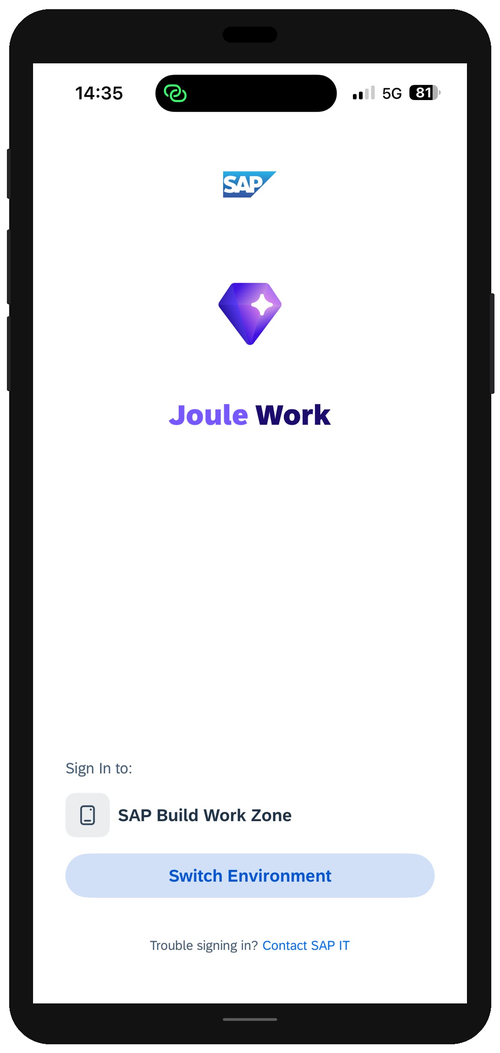
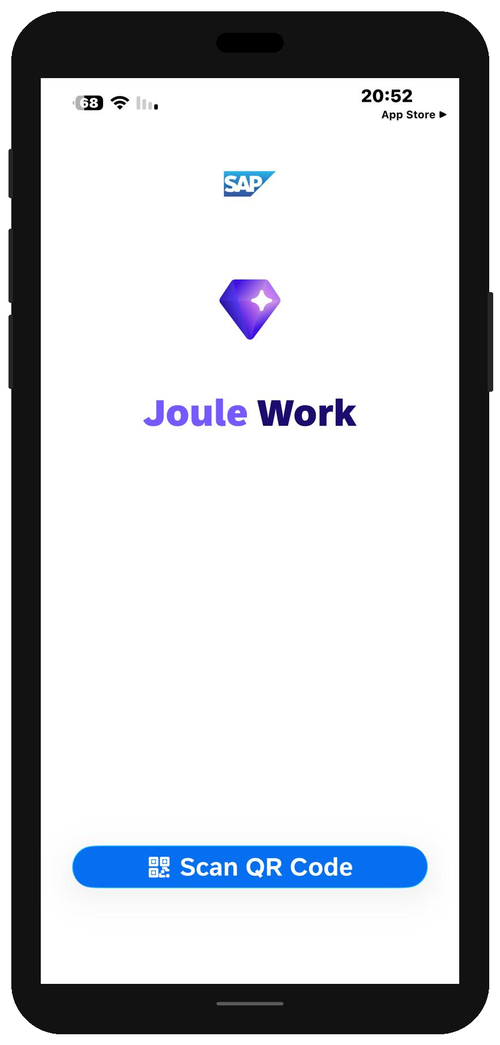
fix(ex0-ex5): fix callout rendering and content improvements across all exercises
- Move all indented callouts (`    > [!...]`) to left margin so they render as styled GitHub alerts instead of plain blockquotes
- Where a callout preceded an image inside a list step, reorder to place image first and callout after (prevents indented image rendering as code block)
- Remove the IMPORTANT callout in ex1.2 about notifying the instructor (not needed)
- Fix 7-space indented paragraph in ex2.1.4 that rendered as a code block (corrected to 4-space list continuation)
- Add TIP in ex2.2 reminding participants to delete placeholder text before generating AI content
- Remove "All Cards (9)" from ex2.3.5
- Add IMPORTANT callout in ex2.4 about equalizing column widths if cards were added one at a time
- Make ex2.5.2 explicit about deleting the "Partner Portal" footer text before replacing it
- Replace ex5.1 step 5 image (05_01_0040.png) with fresh-install splash screen showing Scan QR Code button
- Fix "Open in new tab" value in ex4.5.3 table from Yes to No

diff --git a/exercises/ex3/README.md b/exercises/ex3/README.md
@@ -19,12 +19,12 @@ Rather than downloading and uploading files, you will **copy** the ready-made co
 
 3. In the **Copy To…** dialog that opens, use the dropdown to select the **Dealer Portal** you created in Exercise 2 (e.g. *BestRun EV Dealer Portal AD166-XXX*) as the target workspace. Then click **Select Folder** to start the copy.
 
-    > [!NOTE]
-    > This is a **copy** — the original content stays in the **Dealer Management** workspace so that all other participants can still copy it for themselves.
-    >
-    > The copy may take a few minutes. You can continue with the next steps once it completes.
-
     ![Copy To dialog with the Dealer Portal selected as target and Select Folder button highlighted](images/03_01_0030.png)
+
+> [!NOTE]
+> This is a **copy** — the original content stays in the **Dealer Management** workspace so that all other participants can still copy it for themselves.
+>
+> The copy may take a few minutes. You can continue with the next steps once it completes.
 
 4. Once the copy completes, navigate to your **BestRun EV Dealer Portal AD166-XXX** — the workspace you created in Exercise 2. Open the **Workspaces** menu in the top navigation, hover **Recently Visited Workspaces**, and select your Dealer Portal. In the next steps you will use the copied content to build the product launch section.
 
@@ -168,10 +168,10 @@ Time to step into a dealer's shoes and see the portal exactly as they will on la
 
 2. Navigate to your **BestRun EV Dealer Portal AD166-XXX**. You will see the Overview page as a dealer — the new **Announcement: New Product Line Launch** section now sits prominently below the hero banner, with the styled announcement on the left and the interactive brochure slideshow on the right.
 
-    > [!NOTE]
-    > Document grounding is already enabled for this workspace, so Joule is ready to answer questions about the Apex Series content right away. Dealers can click **Ask Joule** in the announcement text or open Joule from the navigation to get instant answers grounded in the product documents you copied over.
-
     <a href="images/03_04_0010.png" target="_blank"><img src="images/03_04_0010.png" height="500" alt="Full dealer view of the BestRun EV Dealer Portal showing the Apex launch section, Key Highlights, Dealer 360 cards, and Joule-ready content — click to view full size" /></a>
+
+> [!NOTE]
+> Document grounding is already enabled for this workspace, so Joule is ready to answer questions about the Apex Series content right away. Dealers can click **Ask Joule** in the announcement text or open Joule from the navigation to get instant answers grounded in the product documents you copied over.
 
 3. Use the **`<`** and **`>`** navigation buttons on the brochure slideshow to flip through the presentation slides directly on the page — no download required.
 
@@ -179,10 +179,10 @@ Time to step into a dealer's shoes and see the portal exactly as they will on la
 
 4. Click on the brochure itself to open its detail view. From here you can open it full-screen, download it, comment on it, or open it in a native application. Try clicking **✨ Summarize** — Joule generates a concise summary of the presentation without you having to read through all ten slides.
 
-    > [!NOTE]
-    > **Summarize** works across all content types in SAP Build Work Zone: uploaded documents, portal pages, native content like blogs, wikis, and Knowledge Base articles. Whenever a dealer (or any workspace member) wants a quick overview, one click is all it takes.
-
     ![Brochure detail view with the Summarize button highlighted and the AI summary tooltip visible](images/03_04_0030.png)
+
+> [!NOTE]
+> **Summarize** works across all content types in SAP Build Work Zone: uploaded documents, portal pages, native content like blogs, wikis, and Knowledge Base articles. Whenever a dealer (or any workspace member) wants a quick overview, one click is all it takes.
 
 5. The **AI Generated Summary** appears above the document — a concise paragraph covering the key product highlights, pre-order opportunity, and dealer benefits, all extracted directly from the presentation content.
 
@@ -217,8 +217,8 @@ Time to step into a dealer's shoes and see the portal exactly as they will on la
 
     ![Joule answering the LFP battery question in the side panel, with inline citations and a Sources (3) control](images/03_04_0090.png)
 
-    > [!NOTE]
-    > None of this detail is in the launch brochure. One plain-language question returned a trustworthy, cited answer assembled from **two** different dealer documents — no downloading, no skimming.
+> [!NOTE]
+> None of this detail is in the launch brochure. One plain-language question returned a trustworthy, cited answer assembled from **two** different dealer documents — no downloading, no skimming.
 
 9. Finally, the commercial and service question — can you make a margin on it, and can your workshop look after it?
 

diff --git a/exercises/ex2/README.md b/exercises/ex2/README.md
@@ -35,7 +35,7 @@ The Partner Portal Template comes with a hero banner that has placeholder title 
     The portal is the single place where dealers manage their relationship with BestRun EV — orders, invoices, support, and product information.
     ```
 
-       Add your own description, then use the embedded AI to refine it to your needs. Click the <img src="images/aiassist.png" height="16" style="vertical-align: text-bottom;" alt="AI assisted text generation icon"> (AI assist) button next to the field and choose **Change Tone → Make More Professional** to polish your draft.
+    Add your own description, then use the embedded AI to refine it to your needs. Click the <img src="images/aiassist.png" height="16" style="vertical-align: text-bottom;" alt="AI assisted text generation icon"> (AI assist) button next to the field and choose **Change Tone → Make More Professional** to polish your draft.
 
     ![Rotating Banner Widget Description with the AI Change Tone → Make More Professional option](images/02_01_0030.png)
 
@@ -85,6 +85,9 @@ The Key Highlights section has three text cards — **Who & What?**, **Why?**, a
     Review the **Generated Text** and click **Accept** to insert it into the card. If you would like a different result, use **Retry** to regenerate, or **Discard** and try your own prompt or wording.
 
     ![Generate Text dialog showing the Who & What prompt and the generated response with Accept, Retry, and Discard](images/02_02_0020.png)
+
+> [!TIP]
+> If you did not delete the existing **"Suggested text …"** placeholder before generating, you can do it now — select it in the card and delete it.
 
 ### The Why? and How? Cards
 
@@ -151,7 +154,7 @@ The Key Highlights section now explains the portal to dealers, authored entirely
 
     ![Add Content selection screen with the Cards option](images/02_03_0030.png)
 
-5. The **Add Cards** screen lists the pre-built cards available in this landscape (**All Cards (9)**) — including company info cards such as Factory Inventory, Portfolio Performance, and eBike Demand Mix. For the first card, select **BestRun EV | Factory Inventory** — "Available-to-ship factory inventory by eBike model, with stock threshold reference lines."
+5. The **Add Cards** screen lists the pre-built cards available in this landscape — including company info cards such as Factory Inventory, Portfolio Performance, and eBike Demand Mix. For the first card, select **BestRun EV | Factory Inventory** — "Available-to-ship factory inventory by eBike model, with stock threshold reference lines."
 
     ![Add Cards screen showing the pre-built cards with BestRun EV Factory Inventory selected](images/02_03_0040.png)
 
@@ -205,6 +208,9 @@ The Overview page now features a section of BestRun EV company info cards — in
 
     ![Dealer 360 section with three empty columns, each showing an Add Content button](images/02_04_0040.png)
 
+> [!IMPORTANT]
+> If you added each card one at a time without setting up the three columns first, the cards may have ended up with unequal widths. You can still fix this — hover over the section and drag the column dividers to equalize the card widths.
+
 6. The three cards are added, but they show **"No open orders / invoices / support cases found."** This is **expected, not a bug** — these are **self-service cards** that only load data for the signed-in **dealer** user. As the admin, you have no dealer data, so they appear empty. The cards will show real content later, when you switch to your **Dealer XXX** alias in Exercise 3.
 
     ![Dealer 360 section with My Orders, My Invoices, and My Support Cases cards showing empty states for the admin user](images/02_04_0050.png)
@@ -221,7 +227,7 @@ The **Dealer 360** section is in place with the three self-service cards. They l
 
     ![Footer text widget selected in the page editor, showing the generic Partner Portal copyright line](images/02_05_0010.png)
 
-2. Edit the footer text to reflect BestRun EV:
+2. **Delete** the existing **"Partner Portal © 2026 Your Company Name. All rights reserved."** text and replace it with:
 
     ```
     Dealer Portal © 2026 BestRun EV. All rights reserved.

diff --git a/exercises/ex4/README.md b/exercises/ex4/README.md
@@ -214,8 +214,8 @@ Below the wizard, add the **Pre-Order Status** card in a new Freestyle section. 
 
     ![Add Cards dialog with "Pre-Order Status" searched, showing the BestRun EV | Pre-Order Status card](images/04_04_0020.png)
 
-    > [!IMPORTANT]
-    > Make sure you select **BestRun EV | Pre-Order Status**, *not* the Guided5 confirmation card. The status card is the one purpose-built for this page — it starts empty and fills in as the dealer works through the wizard. (If it doesn't appear in the picker, upload `preorder-status-card.card.zip` to the Card Catalog first.)
+> [!IMPORTANT]
+> Make sure you select **BestRun EV | Pre-Order Status**, *not* the Guided5 confirmation card. The status card is the one purpose-built for this page — it starts empty and fills in as the dealer works through the wizard. (If it doesn't appear in the picker, upload `preorder-status-card.card.zip` to the Card Catalog first.)
 
 6. The card is added below the wizard. Because no pre-order has been started yet, it shows its empty state — a **"No pre-order started yet"** illustration. This is exactly what you want: the card stays empty until a dealer runs the wizard.
 
@@ -227,8 +227,8 @@ Below the wizard, add the **Pre-Order Status** card in a new Freestyle section. 
 
     ![Published Apex Pre-Order page with the browser address bar showing the page URL to copy](images/04_04_0040.png)
 
-    > [!TIP]
-    > The URL looks like `https://<host>.workzone.cfapps.eu10.hana.ondemand.com/site#workzone-home&/groups/<groupId>/workpage_tab/...`. Copy the whole thing — it points directly to this Apex Pre-Order workpage.
+> [!TIP]
+> The URL looks like `https://<host>.workzone.cfapps.eu10.hana.ondemand.com/site#workzone-home&/groups/<groupId>/workpage_tab/...`. Copy the whole thing — it points directly to this Apex Pre-Order workpage.
 
 > [!NOTE]
 > When no wizard data exists yet, the status card shows an empty-state illustration ("No pre-order started yet"). As soon as the dealer progresses through the wizard, the card updates automatically — first showing an "in progress" checklist, then switching to the confirmed order summary once Step 5 is completed.
@@ -265,7 +265,7 @@ Now that the Apex Pre-Order page exists, give dealers a clear path to it straigh
     | Title Font Size (rem) | `2` |
     | Subtitle Font Size (rem) | `1.5` |
     | Target URL | *paste the Apex Pre-Order page URL you copied in Exercise 4.4* |
-    | Open in new tab | **Yes** |
+    | Open in new tab | **No** |
 
     ![Button Card configuration dialog with the title, subtitle and sizing values set, showing the blue filled preview](images/04_05_0030.png)
 
@@ -375,10 +375,10 @@ Everything is now in place. Time to put yourself back in the dealer's shoes and 
 
     Before you can continue, tick the box to **accept the Apex Series Pre-Order Terms & Conditions** — acknowledging that the pre-order is binding on submission and subject to the cancellation and delivery terms in the document.
 
-    > [!TIP]
-    > Unsure what you are agreeing to? The step card suggests Joule questions for exactly this moment, such as *"What are my cancellation rights after submitting a pre-order?"* and *"What happens if BestRun EV cannot deliver within the stated window?"* — ask Joule before you accept.
+> [!TIP]
+> Unsure what you are agreeing to? The step card suggests Joule questions for exactly this moment, such as *"What are my cancellation rights after submitting a pre-order?"* and *"What happens if BestRun EV cannot deliver within the stated window?"* — ask Joule before you accept.
 
-    With the terms accepted, click **Save & Continue** and **Next** to move on to **Step 5 — Confirm Pre-Order**.
+With the terms accepted, click **Save & Continue** and **Next** to move on to **Step 5 — Confirm Pre-Order**.
 
 8. **Step 5 — Confirm Pre-Order.** The wizard confirms **"Pre-Order Submitted Successfully"** — you have secured your Apex Series allocation, and BestRun EV will confirm within 2 business days. The screen gives you everything to keep on file:
 

diff --git a/exercises/ex1/README.md b/exercises/ex1/README.md
@@ -28,8 +28,8 @@ Joule is available directly within SAP Build Work Zone — no BTP cockpit access
 
     ![Joule showing a My Workspaces overview with the Dealer Management workspace card](images/01_01_0030.png)
 
-    > [!NOTE]
-    > Joule in SAP Build Work Zone goes beyond general chat — it understands **Work Zone–specific actions**. Alongside listing your workspaces, it can create new workspaces, add members, navigate to content, and more. You will use several of these Work Zone capabilities in the exercises that follow — starting with creating your dealer portal in the next step.
+> [!NOTE]
+> Joule in SAP Build Work Zone goes beyond general chat — it understands **Work Zone–specific actions**. Alongside listing your workspaces, it can create new workspaces, add members, navigate to content, and more. You will use several of these Work Zone capabilities in the exercises that follow — starting with creating your dealer portal in the next step.
 
 ### Summary
 
@@ -61,8 +61,8 @@ There are two ways to create a workspace in SAP Build Work Zone — using Joule 
 
     ![Joule template list scrolled to the bottom showing the Partner Portal template with a Select link](images/01_02_0020.png)
 
-    > [!NOTE]
-    > Joule may skip the template list if it selects a template automatically based on your prompt. If no template selection appears, continue to the next step.
+> [!NOTE]
+> Joule may skip the template list if it selects a template automatically based on your prompt. If no template selection appears, continue to the next step.
 
 3. Joule creates the workspace and confirms with **"Great! The workspace has been created, and you can start building it."**
 
@@ -72,11 +72,11 @@ There are two ways to create a workspace in SAP Build Work Zone — using Joule 
 
     ![Home feed refreshed, showing the workspace-creation update with a link to BestRun EV Dealer Portal XXX](images/01_02_0040.png)
 
-    > [!TIP]
-    > Opening the workspace from the feed link keeps the Joule panel available on the right. You can also use the **View Workspace** button in the Joule chat, but that opens the workspace in a new tab and closes the panel.
+> [!TIP]
+> Opening the workspace from the feed link keeps the Joule panel available on the right. You can also use the **View Workspace** button in the Joule chat, but that opens the workspace in a new tab and closes the panel.
 
-    > [!NOTE]
-    > If you don't see the update, open the **Workspaces** menu in the top navigation and browse to **BestRun EV Dealer Portal XXX** from the list of your workspaces.
+> [!NOTE]
+> If you don't see the update, open the **Workspaces** menu in the top navigation and browse to **BestRun EV Dealer Portal XXX** from the list of your workspaces.
 
 5. Your new **BestRun EV Dealer Portal XXX** workspace opens on its **Overview** page. Close the Joule panel (the **X** in the top-right of the panel) to give yourself the full width for the next steps.
 
@@ -116,15 +116,12 @@ There are two ways to create a workspace in SAP Build Work Zone — using Joule 
 
     ![Newly created workspace open in the classical UI flow](images/01_02_B_0040.png)
 
-    > [!NOTE]
-    > You might need to refresh the workspace to get the cover image from the template.
+> [!NOTE]
+> You might need to refresh the workspace to get the cover image from the template.
 
 </details>
 
 ---
-
-> [!IMPORTANT]
-> As soon as your workspace is created, **notify your instructor**. The instructor needs your workspace name to enable **Document Grounding** for it (used in Exercise 3). Enabling grounding takes time to sync, so flagging it early means it is ready when you reach Exercise 3.
 
 ### Summary
 

diff --git a/exercises/ex0/README.md b/exercises/ex0/README.md
@@ -54,13 +54,13 @@ During this session you play two roles. You start as the portal admin who builds
 
     **[https://jw164-djmbomr8.workzone.cfapps.eu10.hana.ondemand.com/](https://jw164-djmbomr8.workzone.cfapps.eu10.hana.ondemand.com/)**
 
-    > [!NOTE]
-    > This URL is only accessible on-site at SAP TechEd 2026. Login credentials will be provided by the instructor.
+> [!NOTE]
+> This URL is only accessible on-site at SAP TechEd 2026. Login credentials will be provided by the instructor.
 
 2. Take a moment to orient yourself on the SAP Build Work Zone home page — the top menu bar, the Joule icon, and the Workspaces navigation.
 
-    > [!IMPORTANT]
-    > Throughout the exercises, replace `XXX` with your assigned participant number (e.g. if you are participant **AD166-005**, use **005**).
+> [!IMPORTANT]
+> Throughout the exercises, replace `XXX` with your assigned participant number (e.g. if you are participant **AD166-005**, use **005**).
 
 ## Exercise 0.3 Access the "Dealer Management" Workspace
 
@@ -88,14 +88,14 @@ A sample workspace called **Dealer Management** has been pre-provisioned in this
     - **Tab bar** — **Overview**, **Content**, **Feed Updates**, **Forums**, **Events**, **Knowledge Base**, and **Tasks**. Each tab is a different facet of the same workspace.
     - **Overview page content** — a banner, a **Team Activity** feed, and an **Active Tasks** panel. This is the kind of page you will build for your own portal in Exercises 2 and 3.
 
-    > [!TIP]
-    > The invitation notification disappears once you have joined. **Next time** you want to reach this workspace, use the **Workspaces** navigation instead:
-    >
-    > 1. In the top navigation bar, open the **Workspaces** menu and choose **View All Workspaces**.
-    >
-    >     ![Workspaces menu with View All Workspaces, showing the Dealer Management workspace in the list](images/00_03_0050.png)
-    >
-    > 2. Open the **Dealer Management** workspace. Right now it is the only workspace you can see — once you create your own **BestRun EV Dealer Portal XXX** in Exercise 1, it will appear here too.
+> [!TIP]
+> The invitation notification disappears once you have joined. **Next time** you want to reach this workspace, use the **Workspaces** navigation instead.
+
+1. In the top navigation bar, open the **Workspaces** menu and choose **View All Workspaces**.
+
+    ![Workspaces menu with View All Workspaces, showing the Dealer Management workspace in the list](images/00_03_0050.png)
+
+2. Open the **Dealer Management** workspace. Right now it is the only workspace you can see — once you create your own **BestRun EV Dealer Portal XXX** in Exercise 1, it will appear here too.
 
 ## Exercise 0.4 Explore the Workspace: Tasks and Content
 
@@ -118,8 +118,8 @@ Two tabs matter most for the story you are about to live out — **Tasks** (what
 
     Inside the **Apex Launch Material** folder you will find everything needed for the product launch — the Apex Series documents (PDFs), the three product images, and the launch brochure (PPTX). In **Exercise 3** you will copy this material straight into your own dealer portal workspace, so there is nothing to download.
 
-    > [!NOTE]
-    > More guidance on exploring a Work Zone workspace will be added here as the sample workspace is expanded.
+> [!NOTE]
+> More guidance on exploring a Work Zone workspace will be added here as the sample workspace is expanded.
 
 ## Summary
 

diff --git a/exercises/ex5/README.md b/exercises/ex5/README.md
@@ -16,8 +16,8 @@ SAP Build Work Zone content can be accessed not only from a desktop browser, but
 
     Start the download and continue with the next steps on the desktop while the app installs.
 
-    > [!NOTE]
-    > If you already have Joule Work installed and connected to another environment, you can still use it here. You can switch the connected environment from your user profile screen inside the app (+ Add New Environment)
+> [!NOTE]
+> If you already have Joule Work installed and connected to another environment, you can still use it here. You can switch the connected environment from your user profile screen inside the app (+ Add New Environment)
 
 ### Generate the registration QR code (on the desktop)
 
@@ -44,7 +44,7 @@ SAP Build Work Zone content can be accessed not only from a desktop browser, but
 
     - **Already connected to another environment:** sign out and tap **Switch Environment** at the bottom of the screen, then scan the QR code from the next step.
 
-    <img src="images/05_01_0040.png" alt="Joule Work app — if already connected to another environment, tap Switch Environment at the bottom of the screen" width="500" height="1053">
+    <img src="images/05_01_0040.png" alt="Joule Work splash screen on a fresh install, showing the Scan QR Code button" width="500" height="1045">
 
 6. Scan the QR code displayed on the desktop screen. The app shows a **Confirmation** screen — *"Scan succeeded. You will be connected to: jw164-djmbomr8..."*. Tap **Continue**.
 
@@ -80,10 +80,10 @@ Joule Work is installed and connected to the session landscape. You are ready to
 
 4. If you completed the optional **Guided Experience** (Exercise 4), navigate to the **Apex Pre-Order** page and confirm the wizard is accessible on mobile — the step-by-step cards render correctly on a phone screen.
 
-    > [!NOTE]
-    > This step only applies if you built the Guided Experience in Exercise 4.
+> [!NOTE]
+> This step only applies if you built the Guided Experience in Exercise 4.
 
-    <img src="images/05_02_0040.png" alt="Apex Series Pre-Order Guided Experience wizard open on mobile, showing Step 1 — Choose Your Models" width="500" height="1053">
+<img src="images/05_02_0040.png" alt="Apex Series Pre-Order Guided Experience wizard open on mobile, showing Step 1 — Choose Your Models" width="500" height="1053">
 
 ### Summary
 
@@ -117,7 +117,8 @@ You have completed all exercises. You have experienced the BestRun EV Dealer Por
 
 ## Session Complete
 
-Congratulations — you have completed **AD166: Experience AI-enabled business sites with SAP Build Work Zone**.
+> **Congratulations!** :clap: :clap: - 
+> you have completed **AD166: Experience AI-enabled business sites with SAP Build Work Zone**.
 
 Here is what you built and explored in this session:
 
